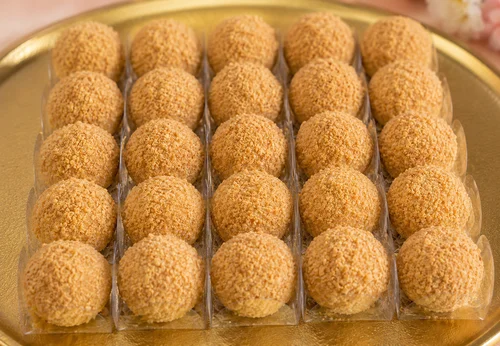
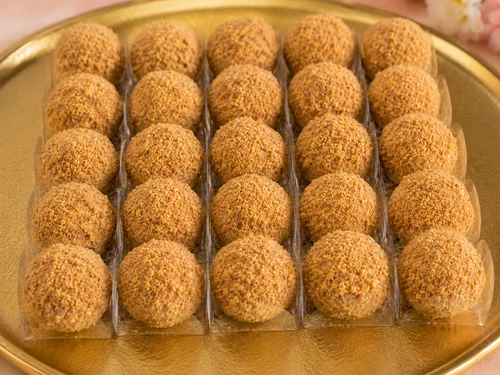
feat(catalog): apply backup and fallback images for traditional sweets and update paçoca image

diff --git a/script.js b/script.js
@@ -1150,7 +1150,19 @@ const initApp = () => {
 
     
     produtos.forEach(p => {
-        if (!p.imagem || p.imagem.trim() === "") {
+        if (p.categoria === "doces-tradicionais") {
+            const reservaImagens = {
+                1: "./assets/reserva/brigadeiroTradicional.webp",
+                2: "./assets/reserva/brigadeiroBranco.webp",
+                3: "./assets/reserva/beijinho.webp",
+                4: "./assets/reserva/cajuzinho.webp"
+            };
+            if (reservaImagens[p.id]) {
+                p.imagem = reservaImagens[p.id];
+            } else if (p.id !== 5) {
+                p.imagem = "./assets/defaultDoces.webp";
+            }
+        } else if (!p.imagem || p.imagem.trim() === "") {
             p.imagem = p.categoria === "salgados" ? "./assets/defaultSalgado.webp" : "./assets/defaultDoces.webp";
         }
     });